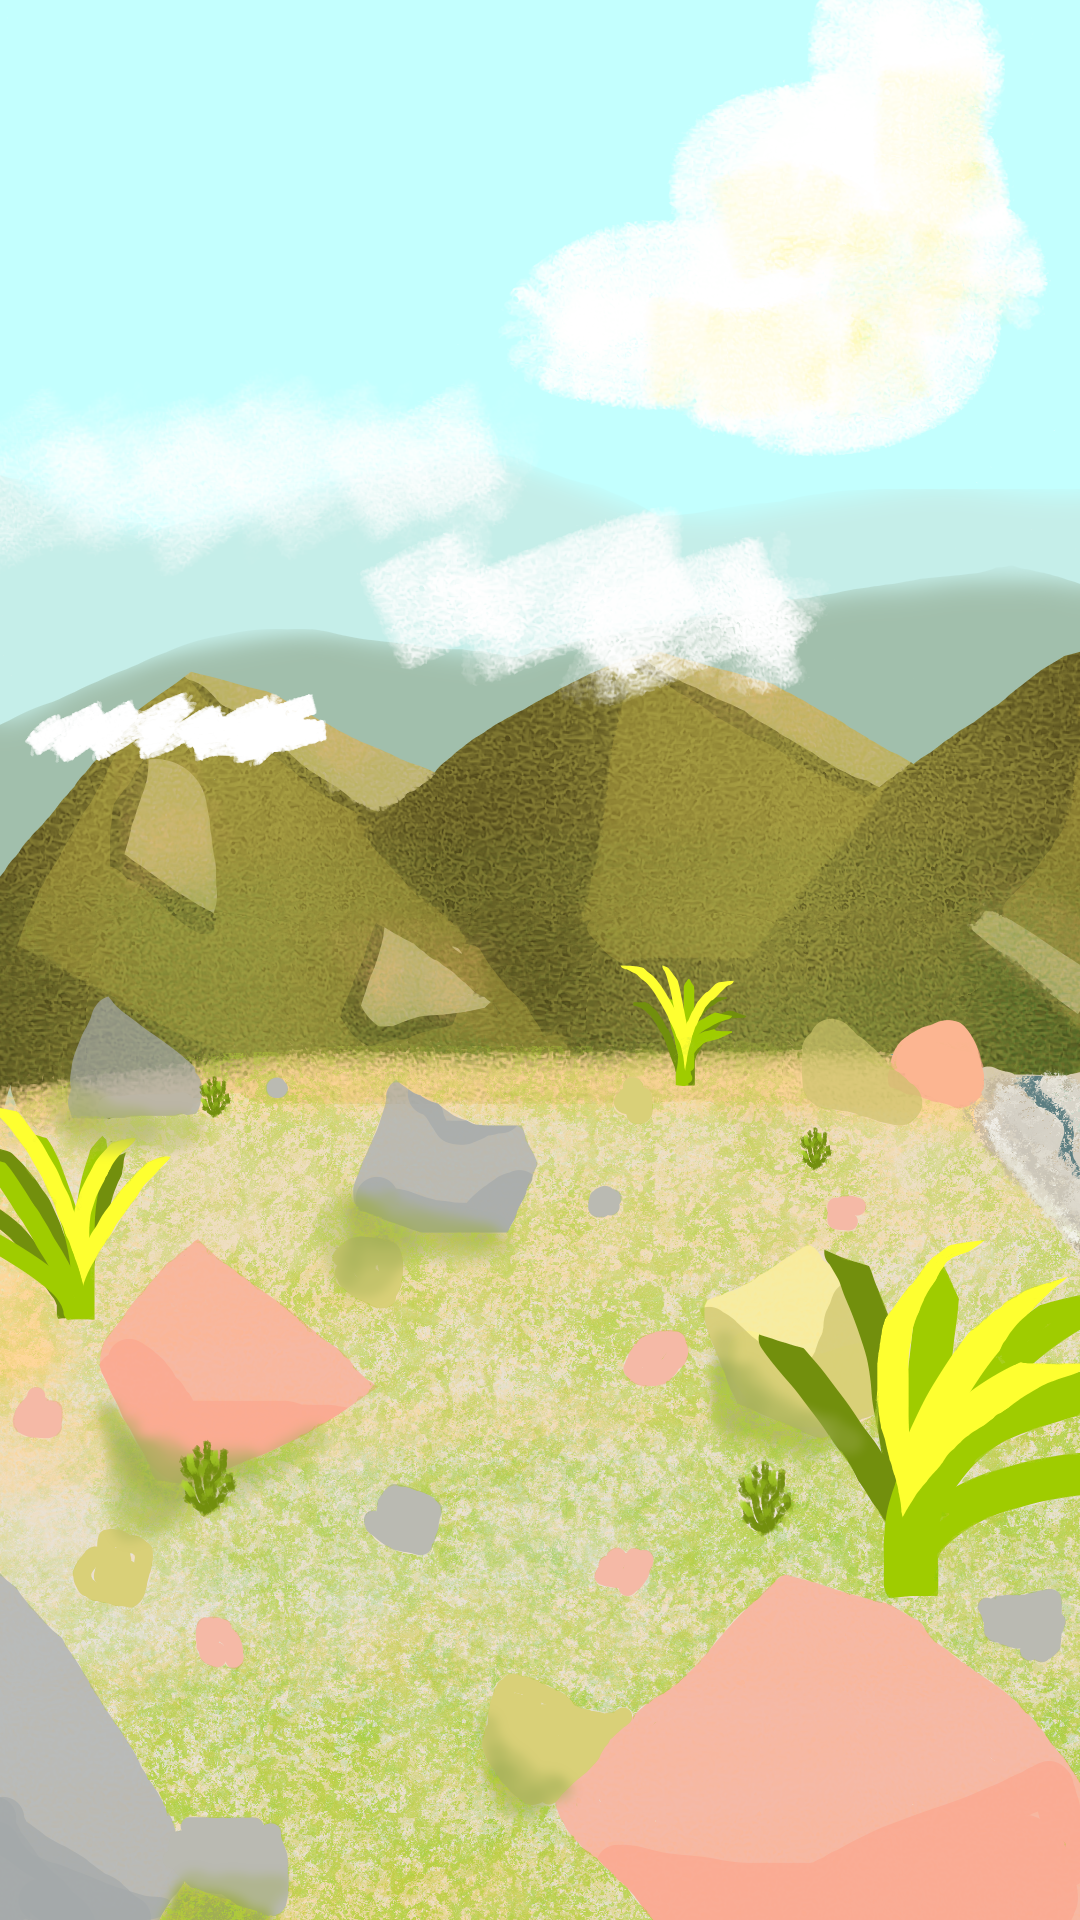
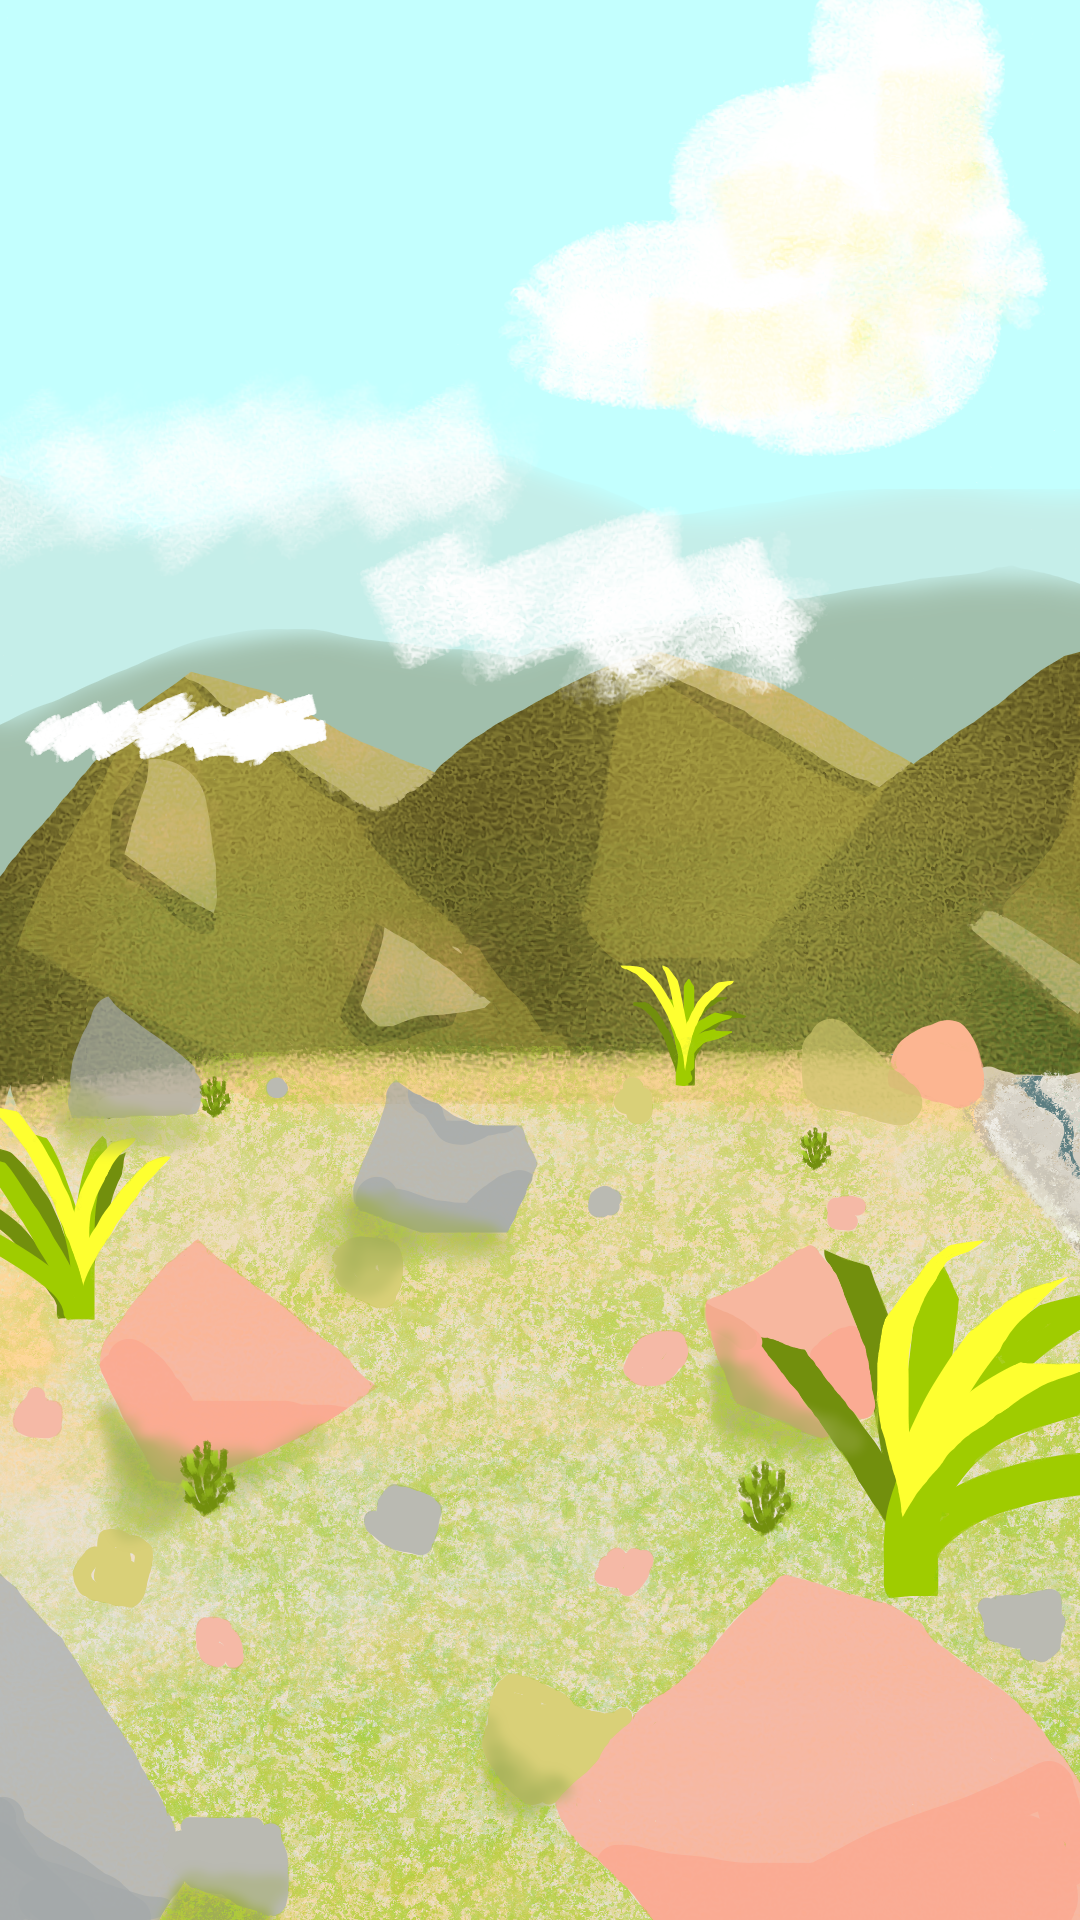
修正永久性道具無法正常使用的問題

Changed region(s): [[0.6417, 0.625, 0.825, 0.75]]

diff --git a/shared/utils/gameHelpers.js b/shared/utils/gameHelpers.js
@@ -27,6 +27,7 @@ import {
   STATUS_BUFF_MULTIPLIER,
   STATUS_DEBUFF_MULTIPLIER,
   ENERGY_HP_REGEN_CYCLE,
+  PERMANENT_DURABILITY,
 } from '../constants/gameConstants.js';
 
 import {
@@ -48,6 +49,7 @@ export {
   STATUS_BUFF_MULTIPLIER,
   STATUS_DEBUFF_MULTIPLIER,
   ENERGY_HP_REGEN_CYCLE,
+  PERMANENT_DURABILITY,
   calculateEffectiveEnergyCost,
   calculateStatEnergyDiscount,
 };
@@ -253,13 +255,44 @@ export const getDurabilityColor = (percent) => {
 };
 
 /**
- * 計算道具的當前耐久度百分比 (0-100)。
- * 若無耐久度則回傳 -1。
+ * 判斷指定道具實體或基礎定義是否為永久免損耗道具。
+ * 規則：道具實體或基礎定義之 durability 等於 PERMANENT_DURABILITY (-1)。
  * @param {Object} item - 道具實體物件。
  * @param {Object} [dbItem] - 物品基礎定義物件。
- * @returns {number} 0 到 100 之間的數值，無耐久度則為 -1。
+ * @returns {boolean} 是否為永久免損耗道具。
+ */
+export const isPermanentItem = (item, dbItem) => {
+  if (!item && !dbItem) return false;
+  const dur = (item?.durability !== undefined && item?.durability !== null)
+    ? Number(item.durability)
+    : ((dbItem?.durability !== undefined && dbItem?.durability !== null) ? Number(dbItem.durability) : PERMANENT_DURABILITY);
+  return dur === PERMANENT_DURABILITY;
+};
+
+/**
+ * 判斷指定工具實體是否具備可用性（耐久度 > 0 或為永久免損耗工具）。
+ * @param {Object} item - 工具實體物件。
+ * @param {Object} [dbItem] - 物品基礎定義物件。
+ * @returns {boolean} 工具是否可用。
+ */
+export const isToolUsable = (item, dbItem) => {
+  if (!item && !dbItem) return false;
+  if (isPermanentItem(item, dbItem)) return true;
+  const dur = (item?.durability !== undefined && item?.durability !== null)
+    ? Number(item.durability)
+    : ((dbItem?.durability !== undefined && dbItem?.durability !== null) ? Number(dbItem.durability) : 0);
+  return dur > 0;
+};
+
+/**
+ * 計算道具的當前耐久度百分比 (0-100)。
+ * 規則：若為永久免損耗道具或無有效耐久度則回傳 -1。
+ * @param {Object} item - 道具實體物件。
+ * @param {Object} [dbItem] - 物品基礎定義物件。
+ * @returns {number} 0 到 100 之間的數值，永久道具或無耐久度則為 -1。
  */
 export const getItemDurabilityPercent = (item, dbItem) => {
+  if (isPermanentItem(item, dbItem)) return PERMANENT_DURABILITY;
   const curDur = (item?.durability !== undefined && item?.durability !== null && item.durability > 0)
     ? item.durability
     : -1;
@@ -275,15 +308,27 @@ export const getItemDurabilityPercent = (item, dbItem) => {
 /**
  * 依耐久度百分比取得道具狀態文字與顏色樣式。
  * 規則：
+ * - 永久免損耗 (-1 / PERMANENT_DURABILITY)：已具備 (Available) 綠色
  * - 91% 以上（綠色）：穩固 (Sturdy)
  * - 31% - 90%（黃色）：普通 (Decent)
  * - 30% 以下（紅色）：破舊 (Worn)
  *
- * @param {number} percent - 耐久度百分比 (0-100)。
+ * @param {number} percent - 耐久度百分比 (0-100)，永久道具為 -1。
  * @param {string} [language='zh-TW'] - 語系代碼 ('zh-TW' 或 'en')。
  * @returns {{ text: string, color: string, badgeStyle: { background: string, color: string, border: string } }}
  */
 export const getDurabilityStatusInfo = (percent, language = 'zh-TW') => {
+  if (percent === PERMANENT_DURABILITY || percent === -1) {
+    return {
+      text: language === 'en' ? 'Available' : '已具備',
+      color: '#4ade80',
+      badgeStyle: {
+        background: 'rgba(34, 197, 94, 0.15)',
+        color: '#4ade80',
+        border: '1px solid rgba(34, 197, 94, 0.3)',
+      },
+    };
+  }
   if (percent <= 30) {
     return {
       text: language === 'en' ? 'Worn' : '破舊',
@@ -319,20 +364,27 @@ export const getDurabilityStatusInfo = (percent, language = 'zh-TW') => {
 
 /**
  * 比較兩道具之耐久度，依指定排序方式排序（耐久度相同時維持原順序）。
+ * 排序規則：
+ * - 'asc'（升序，消耗優先）：有限耐久度由低到高排在最前面，永久免損耗道具 (-1) 排在最後面。
+ * - 'desc'（降序，優選優先）：永久免損耗道具視同無窮大耐久排在最前，其次為有限耐久度由高到低。
  * @param {Object} a - 道具 A。
  * @param {Object} b - 道具 B。
  * @param {'asc'|'desc'|boolean} [order='asc'] - 排序方式：'asc'（預設，最低耐久優先）或 'desc'（最高耐久優先）。
  * @returns {number}
  */
 export const compareItemDurability = (a, b, order = 'asc') => {
+  const isAPerm = isPermanentItem(a);
+  const isBPerm = isPermanentItem(b);
+  if (isAPerm && isBPerm) return 0;
+  if (!isAPerm && isBPerm) return order === 'desc' || order === false ? 1 : -1;
+  if (isAPerm && !isBPerm) return order === 'desc' || order === false ? -1 : 1;
+
   const durA = (a?.durability !== undefined && a?.durability !== null && a.durability > 0) ? a.durability : -1;
   const durB = (b?.durability !== undefined && b?.durability !== null && b.durability > 0) ? b.durability : -1;
   if (durA > 0 && durB > 0) {
     const isDesc = order === 'desc' || order === false;
     return isDesc ? durB - durA : durA - durB;
   }
-  if (durA > 0 && durB <= 0) return -1;
-  if (durA <= 0 && durB > 0) return 1;
   return 0;
 };
 
@@ -451,7 +503,7 @@ export const settleItemDecay = (items = [], allDbItems = [], options = {}) => {
 };
 
 /**
- * 取得背包中符合特定工具類型的所有可用工具實體（durability > 0），並依耐久度升序排序（最低耐久者優先）。
+ * 取得背包中符合特定工具類型的所有可用工具實體（耐久度 > 0 或永久免損耗工具），並依耐久度升序排序（最低耐久者優先，永久工具排在最後）。
  * @param {Array<Object>} [inventory=[]] - 玩家背包清單。
  * @param {string} toolType - 所需工具類型。
  * @param {Array<Object>} [allDbItems=[]] - 物品基礎定義清單。
@@ -474,14 +526,13 @@ export const getMatchingToolsAscending = (inventory = [], toolType, allDbItems =
     const types = Array.isArray(rawTypes) ? rawTypes : (rawTypes ? [rawTypes] : []);
     if (!types.includes(toolType)) continue;
 
-    // 檢查耐久度：實體或基礎定義有耐久度，且當前耐久 > 0
-    const dur = item.durability !== undefined && item.durability !== null ? Number(item.durability) : -1;
-    if (dur > 0) {
+    // 檢查耐久度：實體或基礎定義為可用工具（耐久 > 0 或為永久免損耗工具）
+    if (isToolUsable(item, dbItem)) {
       matching.push(item);
     }
   }
 
-  // 依耐久度升序排序（最低耐久度者排第一位）
+  // 依耐久度升序排序（最低耐久度者排第一位，永久免損耗工具排在最後）
   matching.sort((a, b) => compareItemDurability(a, b, 'asc'));
   return matching;
 };
@@ -490,8 +541,9 @@ export const getMatchingToolsAscending = (inventory = [], toolType, allDbItems =
  * 計算單一工具在單次精力消耗下最大可執行的次數。
  * 規則：
  * 1. 若單次精力消耗 <= 0，工具不限制次數 (Infinity)。
- * 2. 若工具耐久度不足以執行 1 次 (0 < durability < singleCost)，無論玩家選擇幾次，都只執行 1 次，接著毀壞。
- * 3. 若耐久度 >= singleCost，可執行 Math.ceil(durability / singleCost) 次（最後一次即使剩餘耐久不足 1 次精力，亦允許執行最後 1 次後損毀）。
+ * 2. 若為永久免損耗工具 (durability === -1)，工具不限制次數 (Infinity)。
+ * 3. 若工具耐久度不足以執行 1 次 (0 < durability < singleCost)，無論玩家選擇幾次，都只執行 1 次，接著毀壞。
+ * 4. 若耐久度 >= singleCost，可執行 Math.ceil(durability / singleCost) 次（最後一次即使剩餘耐久不足 1 次精力，亦允許執行最後 1 次後損毀）。
  *
  * @param {Object} tool - 工具實體物件。
  * @param {number} singleCost - 單次行動實際精力消耗。
@@ -499,6 +551,7 @@ export const getMatchingToolsAscending = (inventory = [], toolType, allDbItems =
  */
 export const calculateToolMaxExecutions = (tool, singleCost) => {
   if (typeof singleCost !== 'number' || singleCost <= 0) return Infinity;
+  if (isPermanentItem(tool)) return Infinity;
   const dur = Number(tool?.durability) || 0;
   if (dur <= 0) return 0;
   return Math.max(1, Math.ceil(dur / singleCost));
@@ -583,6 +636,11 @@ export const applyToolsDurabilityDeduction = (
   const updatedDurabilityMap = new Map();
 
   for (const tool of toolList) {
+    // 永久免損耗工具不扣除耐久度
+    if (isPermanentItem(tool)) {
+      continue;
+    }
+
     const curDur = Number(tool.durability) || 0;
     const newDur = Math.round((curDur - totalEnergyCost) * 100) / 100;
 

diff --git a/src/components/panels/GatherPanel.jsx b/src/components/panels/GatherPanel.jsx
@@ -539,11 +539,6 @@ export const GatherPanel = () => {
                   return dbB ? dbB.type : b.buildingId;
                 });
 
-                const invToolTypes = inventory.flatMap((inv) => {
-                  if ((inv.count || 1) <= 0) return [];
-                  return getItemTypes(inv.itemId);
-                });
-
                 const hasBaitRequirement = reqTools.includes('BAIT');
                 const baitEntries = inventory.filter((inv) => getItemTypes(inv.itemId).includes('BAIT'));
                 const totalBaitCount = baitEntries.reduce((sum, inv) => sum + (inv.count || 1), 0);
@@ -552,7 +547,7 @@ export const GatherPanel = () => {
 
                 const nonConsumableReqs = reqTools.filter((t) => t !== 'BAIT');
                 const hasNonConsumableTools = nonConsumableReqs.every(
-                  (t) => locBuildingTypes.includes(t) || invToolTypes.includes(t)
+                  (t) => locBuildingTypes.includes(t) || getMatchingToolsAscending(inventory, t, items).length > 0
                 );
 
                 const currentEnergy = Math.round((player?.energy ?? 0) * 10) / 10;

diff --git a/src/constants/translations.js b/src/constants/translations.js
@@ -186,7 +186,7 @@ export const TOOL_TYPE_LABELS = {
     TABLE: '工作檯',
     HEATING: '加熱工具',
     PAN: '平底鍋',
-    SMOKER_BOX: '煙燻箱',
+    ROASTING_BOX: '烘肉箱',
     CUTTING: '切割工具',
     FIRE: '營火',
     LIGHT: '照明設備',
@@ -200,7 +200,7 @@ export const TOOL_TYPE_LABELS = {
     TABLE: 'Work Table',
     HEATING: 'Heating Tool',
     PAN: 'Frying Pan',
-    SMOKER_BOX: 'Smoker Box',
+    ROASTING_BOX: 'Roasting Box',
     CUTTING: 'Cutting Tool',
     FIRE: 'Campfire',
     LIGHT: 'Light Source',
@@ -225,6 +225,7 @@ export const MATERIAL_TYPE_LABELS = {
     FOOD: '食物',
     QUEST_ITEM: '任務道具',
     BOAT_VOUCHER: '船票',
+    ROASTING_BOX: '烘肉箱',
   },
   'en': {
     FLOUR: 'Flour',
@@ -242,6 +243,7 @@ export const MATERIAL_TYPE_LABELS = {
     FOOD: 'Food',
     QUEST_ITEM: 'Quest Item',
     BOAT_VOUCHER: 'Boat Voucher',
+    ROASTING_BOX: 'Roasting Box',
   },
 };
 

diff --git a/src/components/panels/CraftPanel.jsx b/src/components/panels/CraftPanel.jsx
@@ -75,14 +75,8 @@ export const CraftPanel = () => {
       return true;
     }
 
-    const invToolTypes = inventory.flatMap((inv) => {
-      const dbI = items.find((i) => i.itemId === inv.itemId);
-      if (!dbI || !dbI.type) return [];
-      return Array.isArray(dbI.type) ? dbI.type : [dbI.type];
-    });
-
     return rec.requiredToolTypes.every(
-      (t) => locBuildingTypes.includes(t) || invToolTypes.includes(t)
+      (t) => locBuildingTypes.includes(t) || getMatchingToolsAscending(inventory, t, items).length > 0
     );
   };
 

diff --git a/README.md b/README.md
@@ -134,7 +134,7 @@ AetherImmersion/
   - 採集類型包含液體（`LIQUID`）的資源時，透過 `calculateLiquidContainerCapacity` 尋找背包中允許裝載該液體的容器（`CONTAINER`，空容器或已裝同種液體者）。
   - 採集成功後調用 `fillLiquidContainers` 直接將液體注入容器 `contents`，不生成背包散裝物品；若背包無可用容器容量則阻止採集並報錯。
 - **生活技能加成**：採集、釣魚、挖礦依生活技能等級每級提供 +5% 成功率加成（`calculateSuccessRate`）；成功後透過 `addLifeSkillExp` 累加生活技能經驗。
-- **工具耐久扣除與損毀**：依耐久度升序選取工具並扣除耐久度；耐久度歸零自動損壞銷毀並記錄系統日誌。
+- **工具耐久扣除與損毀**：依耐久度升序選取工具並扣除耐久度；耐久度歸零自動損壞銷毀並記錄系統日誌；永久免損耗工具（`durability: -1` / `PERMANENT_DURABILITY`，如平底鍋）透過 `isPermanentItem` 豁免扣損，並透過 `isToolUsable` 判定可用性。
 - **素材解鎖配方**：採集獲得產物時自動比對 `recipe.triggerItem` 解鎖新製作配方。
 
 ### 6. 物品製作、材料修飾與配方機制 (Crafting & Modifiers System)
@@ -414,7 +414,7 @@ sequenceDiagram
   - 後端路由：`server/routes/api.js` -> `router.post('/player/craft')`, `triggerRecipeUnlocks()`
   - 核心輔助：`shared/utils/gameHelpers.js` -> `calculateMaxExecutableByTools()`, `compareItemDurability()`, `applyToolsDurabilityDeduction()`, `calculateSuccessRate()`, `addLifeSkillExp()`, `addItemsToInventory()`, `checkRecipeUnlocks()`
 - **關鍵功能與運作機制**：
-  1. **配方權限與環境設施驗證**：檢查配方是否位於玩家 `player.unlockedRecipes` 中；檢查當前場景建築設施（如加熱設施 `HEATING`、烹飪設施 `COOKING`）或背包工具是否滿足 `requiredToolTypes`。
+  1. **配方權限與環境設施驗證**：檢查配方是否位於玩家 `player.unlockedRecipes` 中；檢查當前場景建築設施（如加熱設施 `HEATING`、烹飪設施 `COOKING`）或背包工具是否滿足 `requiredToolTypes`；背包工具透過 `isToolUsable` 判定可用性（相容消耗型耐久度工具與永久免損耗工具如平底鍋）。
   2. **原料損耗優選順序**：透過 `compareItemDurability` 優先消耗背包中耐久度最低（即最接近腐壞）的材料實體。
   3. **耐久度公式計算**：若配方定義了動態計算公式 `durabilityFormula`（例如由主材料的剩餘耐久折算產物耐久），以主消耗材料代入函式計算生成物的實際耐久度。
   4. **修飾詞與客製化前綴**：配方支援基底材料（base）與修飾材料（modifier）。當投入修飾素材時，依據 `recipe.modifiers` 自動生成客製化前綴（如 `[修飾前綴]・[產物名稱]`）與額外營養加成 `bonusNutrition`。
